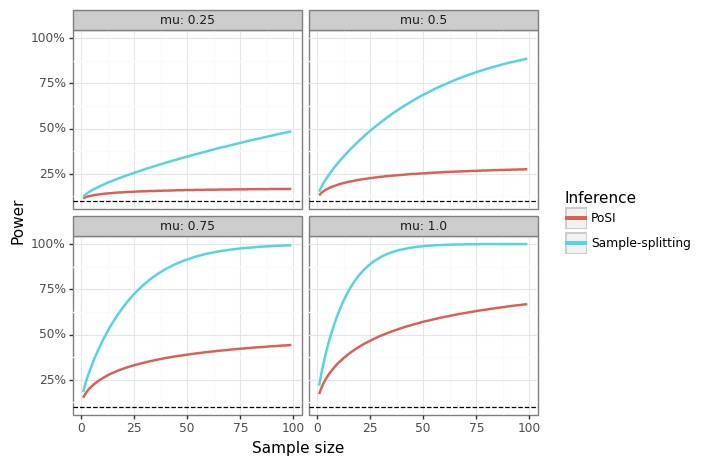
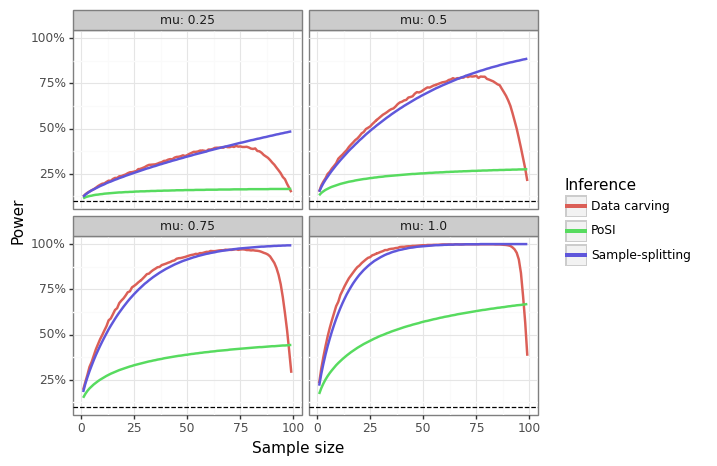
mysterious carving power

diff --git a/examples/sample_mean.py b/examples/sample_mean.py
@@ -1,3 +1,8 @@
+"""
+Shows how data carving works for simple sample mean test
+
+python3 -m examples.sample_mean
+"""
 
 # External
 import os
@@ -47,14 +52,10 @@ dist_alt_screen = tnorm(*np.broadcast_arrays(mu_seq, var_screen),thresh,np.inf)
 assert np.all(dist_null_screen.cdf(2).flatten() == dist_alt_screen.cdf(2)[:,0]), 'expected 0th column to align with null distribution'
 
 # (iii) Data carving: NTS
-dist_null_carve = nts(mu_null, var_split, mu_null, var_screen, thresh, np.inf, 1, 1)
+mu_null_wide = np.broadcast_arrays(mu_null, mu_seq)[0]
+dist_null_carve = nts(*np.broadcast_arrays(mu_null_wide, var_split, mu_null_wide, var_screen), thresh, np.inf, 1, 1)
 dist_alt_carve = nts(*np.broadcast_arrays(mu_seq, var_split, mu_seq, var_screen),thresh, np.inf, 1,1)
 assert np.all(dist_null_carve.ppf(0.5,method='approx')[0,:,0] == dist_alt_carve.ppf(0.5,'approx')[0,:,0]), 'expected ppfs to line up'
-# FAILS
-# dist_null_carve.ppf(0.5,method='root')
-# dist_null_carve.ppf(0.5,method='root_loop')
-# dist_null_carve.ppf(np.repeat(0.5,len(frac_split)))
-
 
 
 ###############################
@@ -75,15 +76,16 @@ power_screen = np.mean(1 - dist_null_screen.cdf(q_screen_alt) < alpha, axis=0)
 res_power_screen = pd.DataFrame(power_screen,index=n_screen,columns=mu_seq.flat).rename_axis('n').melt(ignore_index=False,var_name='mu',value_name='power').reset_index().assign(method='screen')
 
 # (iii) Data carving: NTS
-q_carve_alt = dist_alt_carve.ppf(p_seq.flatten())
-#   File "/Users/drysdaleerik/Documents/code/nts/sntn/_nts.py", line 246, in ppf
-    # assert merr_i < tol, f'Error! Root finding had a max error {merr_i} which exceeded tolerance {tol}'           ^^^^^^^^^^^^
-# AssertionError: Error! Root finding had a max error 0.001 which exceeded tolerance 0.001
-
+# Solving thousands of roots takes to long, use empirical quantiles
+ndraw = 25000
+q_carve_alt = np.quantile(dist_alt_carve.rvs(ndraw, seed=seed),p_seq.flat, axis=0)
+# q_carve_alt = dist_alt_carve.ppf(p_seq.flatten(), verbose_iter=1, verbose=True)
+power_carve = np.mean(1 - dist_null_carve.cdf(q_carve_alt) < alpha, axis=0)
+res_power_carve = pd.DataFrame(power_carve,index=n_split,columns=mu_seq.flat).rename_axis('n').melt(ignore_index=False,var_name='mu',value_name='power').reset_index().assign(method='carve')
 
 
 # (iv) Combine all
-res_power = pd.concat(objs=[res_power_split, res_power_screen])
+res_power = pd.concat(objs=[res_power_split, res_power_screen, res_power_carve])
 res_type1 = res_power.query('mu==0').reset_index(drop=True)
 res_type2 = res_power.query('mu>0').reset_index(drop=True)
 

diff --git a/sntn/_nts.py b/sntn/_nts.py
@@ -203,9 +203,9 @@ class _nts():
             assert n == int(n), 'expected n to be a whole number'
             n = int(n)
             w = np.squeeze(w.reshape([n,self.k]))
-            pval = self.cdf(w)
+            pval = np.squeeze(self.cdf(w))
             p = np.squeeze(p.reshape(pval.shape))
-            err = (pval - p).flatten()
+            err = pval - p
         else:
             # w/p are the correct shapes for evaluation, but they need to be flattened for the root solver
             err = self.cdf(w) - p
@@ -228,8 +228,8 @@ class _nts():
         valid_ppf_methods = ['root', 'root_loop', 'approx']
         assert method in valid_ppf_methods, f'method must be one of {valid_ppf_methods}'
         # Make sure aligns with the parameters
-        p = broadcast_to_k(np.atleast_1d(p), self.param_shape)
-        # Use the naive quantiles for an initial guess
+        p = np.atleast_1d(p)
+        p = broadcast_to_k(p, self.param_shape)
         w0 = self.dist_Z1.ppf(p) + self.dist_Z2.ppf(p)
         assert p.shape == w0.shape, 'Expected ppf of dist_Z{12} to align with p shape'
         if method == 'approx':
@@ -237,13 +237,16 @@ class _nts():
             w = reverse_broadcast_from_k(w0, self.param_shape)
         if method == 'root_loop':
             # Still technically the root, but will loop over the samples
+            if (len(p.shape) == 1) and (len(self.param_shape) > 1):
+                p = np.expand_dims(p, 0)
+                w0 = np.expand_dims(w0, 0)
             n = len(w0)
             w = np.zeros(w0.shape)
             stime = time()
             for i in range(n):
                 solution_i = root(self._err_cdf_p, np.atleast_1d(w0[i]), args=(np.atleast_1d(p[i])))
-                merr_i = np.abs(solution_i.fun).max()
-                assert merr_i < tol, f'Error! Root finding had a max error {merr_i} which exceeded tolerance {tol}'
+                merr_i = np.max(np.abs(solution_i.fun))
+                assert merr_i <= tol, f'Error! Root finding had a max error {merr_i} which exceeded tolerance {tol} for iteration {i}'
                 w[i] = solution_i.x
                 if verbose:
                     if (i+1) % verbose_iter == 0:

diff --git a/sntn/_solvers.py b/sntn/_solvers.py
@@ -245,10 +245,7 @@ class conf_inf_solver():
                 fun_check[k] = di_fail['f'](x0_check[k], *di_fail['args'])
             # Find the first point of transition
             idx_flip = np.diff(fun_check > 0, axis=0)
-            try:
-                assert np.all(np.sum(idx_flip, axis=0) == 1), 'Multipe sign changes found!!'
-            except:
-                breakpoint()
+            assert np.all(np.sum(idx_flip, axis=0) == 1), 'Multipe sign changes found!!'
             idx_flip = np.argmax(idx_flip, axis=0)
             x_low = x0_check[idx_flip, range(n_fail)]
             x_high = x0_check[idx_flip+1, range(n_fail)]
